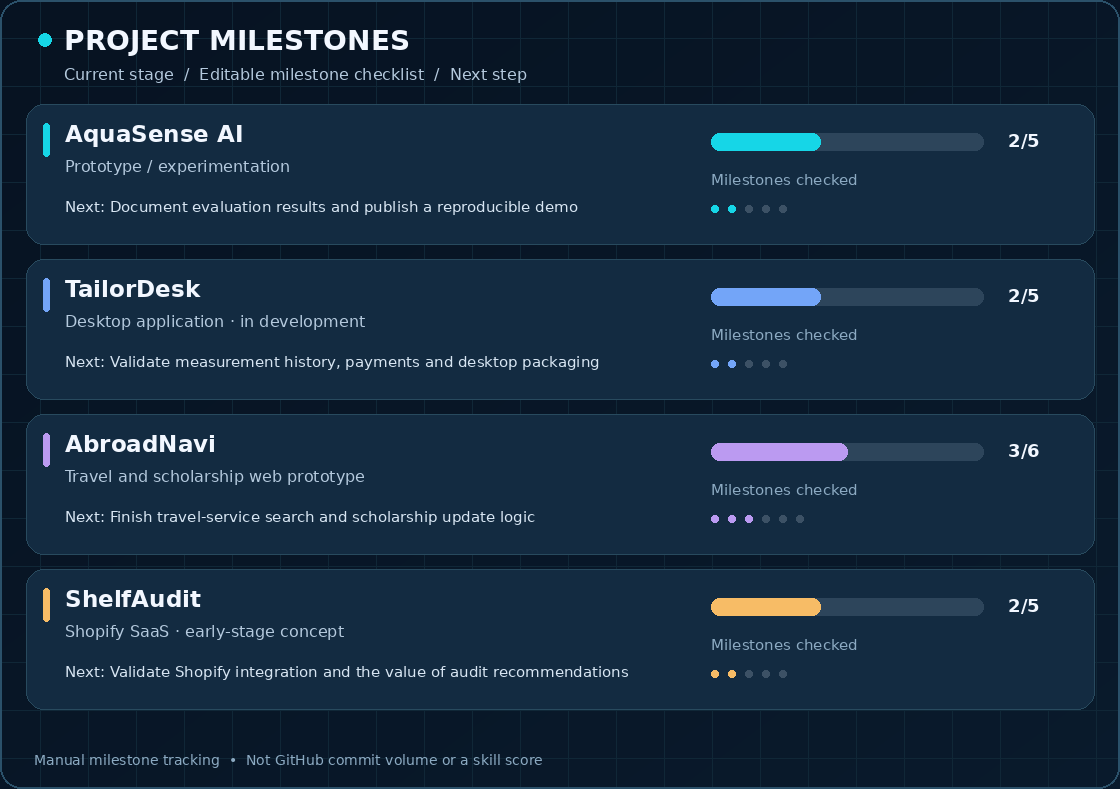
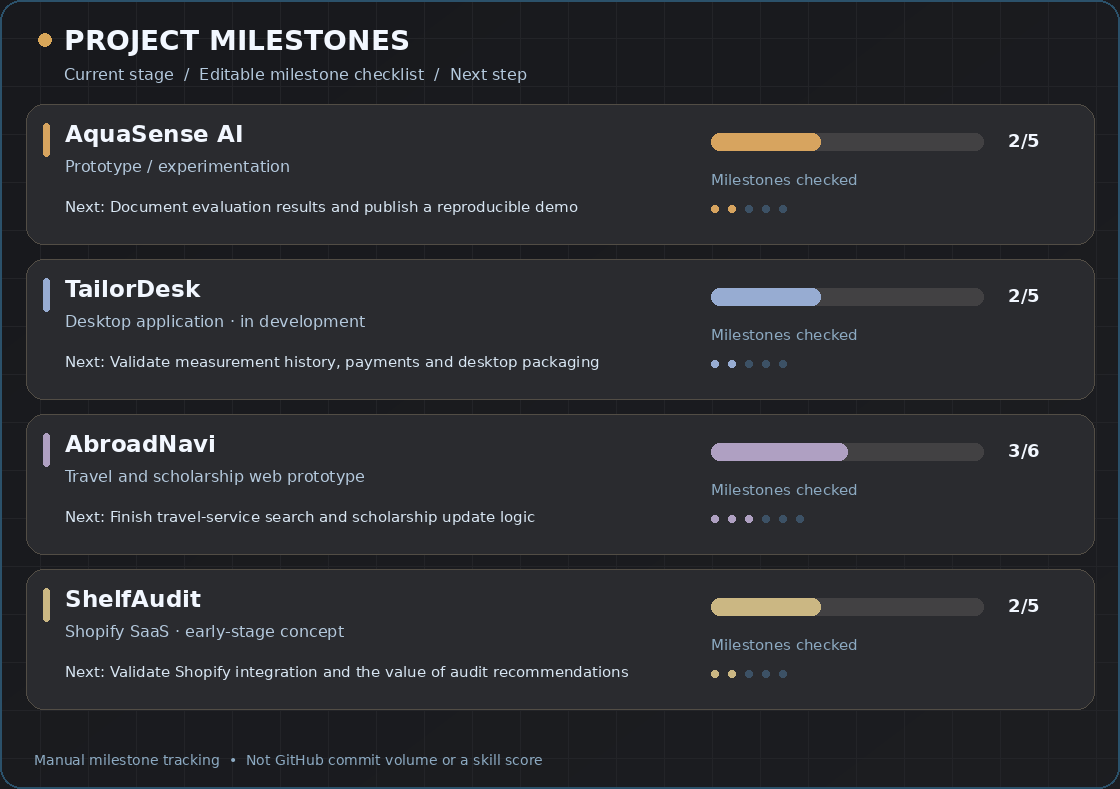
...update

diff --git a/scripts/render_animations.py b/scripts/render_animations.py
@@ -18,16 +18,16 @@ ASSETS = BASE / 'assets'
 ASSETS.mkdir(exist_ok=True)
 PROJECTS = json.loads((BASE/'data/projects.json').read_text(encoding='utf-8'))['projects']
 
-NAVY = (7, 19, 34)
-NAVY2 = (12, 32, 52)
-NAVY3 = (19, 43, 65)
-CYAN = (22, 214, 231)
-CYAN_BRIGHT = (34, 238, 248)
-BLUE = (115, 165, 248)
+NAVY = (24, 25, 29)
+NAVY2 = (32, 33, 36)
+NAVY3 = (42, 43, 47)
+CYAN = (216, 166, 89)
+CYAN_BRIGHT = (231, 190, 121)
+BLUE = (139, 160, 202)
 WHITE = (242, 247, 255)
 SUB = (180, 201, 221)
 MUTED = (140, 170, 194)
-TRACK = (45, 69, 91)
+TRACK = (66, 65, 67)
 F = {
     'bold': ['/usr/share/fonts/truetype/dejavu/DejaVuSans-Bold.ttf', '/usr/share/fonts/truetype/liberation2/LiberationSans-Bold.ttf', 'DejaVuSans-Bold.ttf'],
     'regular': ['/usr/share/fonts/truetype/dejavu/DejaVuSans.ttf', '/usr/share/fonts/truetype/liberation2/LiberationSans-Regular.ttf','DejaVuSans.ttf'],
@@ -60,9 +60,9 @@ def bg(w,h):
             t=.3*x/w+.28*y/h
             p[x,y]=(int(NAVY[0]*(1-t)+NAVY2[0]*t),int(NAVY[1]*(1-t)+NAVY2[1]*t),int(NAVY[2]*(1-t)+NAVY2[2]*t))
     d=ImageDraw.Draw(im)
-    # restrained circuit/grid lines for depth
-    for x in range(40,w,48): d.line([(x,0),(x,h)], fill=(16,39,55),width=1)
-    for y in range(38,h,48):d.line([(0,y),(w,y)], fill=(16,39,55),width=1)
+    # restrained editorial grid for depth
+    for x in range(40,w,48): d.line([(x,0),(x,h)], fill=(35,36,40),width=1)
+    for y in range(38,h,48):d.line([(0,y),(w,y)], fill=(35,36,40),width=1)
     return im
 
 def export_gif(images,filename,durations):
@@ -83,8 +83,8 @@ def make_header():
     d.text((1035,111),'</>',font=font(39,'mono'),fill=CYAN)
     d.text((932,242),'BUILD  /  LEARN  /  SHARE',font=font(12,'mono'),fill=(119,159,182))
     d.line((40,244,862,244),fill=(42,80,96),width=2)
-    d.text((42,181),'Software Developer  /  Frontend, Shopify & SEO',font=font(22),fill=SUB)
-    d.text((42,213),'Applied AI & Research',font=font(19,'bold'),fill=CYAN_BRIGHT)
+    d.text((42,181),'AI Research Interests  /  Applied Machine Learning',font=font(22),fill=SUB)
+    d.text((42,213),'Software Developer  /  Frontend, Shopify & SEO',font=font(19,'bold'),fill=CYAN_BRIGHT)
     name='Muhammad Abubakar Maqsood'
     size=51
     f=font(size,'bold')
@@ -141,7 +141,7 @@ def draw_card(d,p,i,amount):
     elif c==(128,183,255):c=BLUE
     elif c==(194,163,255):c=(187,154,241)
     elif c==(241,189,112):c=(247,188,102)
-    corner(d,(26,y,1094,y+140),18,NAVY3,outline=(40,74,94),width=1)
+    corner(d,(26,y,1094,y+140),18,NAVY3,outline=(82,77,69),width=1)
     corner(d,(43,y+19,49,y+52),3,c)
     d.text((65,y+16),str(p.get('name','Untitled')),font=font(23,'bold'),fill=WHITE)
     d.text((65,y+53),str(p.get('phase','In progress')),font=font(16),fill=SUB)
@@ -212,5 +212,5 @@ def make_dashboard():
     (ASSETS/'project-dashboard.svg').write_text('\n'.join(svg),encoding='utf-8')
 
 if __name__=='__main__':
-    make_header();make_dashboard()
+    make_dashboard()
     print(f'Rendered animated header and {len(PROJECTS)} project rows')

diff --git a/README.md b/README.md
@@ -1,125 +1,100 @@
 <!-- Profile repository: github.com/abubakar-maqsood/abubakar-maqsood -->
 <div align="center">
-  <img src="assets/name-cover-typing.gif" width="100%" alt="Animated typing of the name Muhammad Abubakar Maqsood with a subtle cyan accent" />
+  <img src="assets/top-cover-banner.webp" width="100%" alt="Muhammad Abubakar Maqsood banner with AI research interests, applied machine learning, and aspiring for MS and PhD abroad" />
   <br/><br/>
   <a href="https://www.linkedin.com/in/abu-ba-kar/"><img src="https://img.shields.io/badge/LinkedIn-Connect-0A66C2?style=flat-square&logo=linkedin&logoColor=white" alt="LinkedIn" /></a>
-  <a href="https://ayhanpk.com/"><img src="https://img.shields.io/badge/Website-Ayhan_Co-089EAD?style=flat-square&logo=googlechrome&logoColor=white" alt="Ayhan Co" /></a>
-  <a href="https://github.com/abubakar-maqsood?tab=repositories"><img src="https://img.shields.io/badge/GitHub-Explore_Code-243B58?style=flat-square&logo=github&logoColor=white" alt="Repositories" /></a>
-</div>
-
-<div align="center">
+  <a href="https://ayhanpk.com/"><img src="https://img.shields.io/badge/Website-Ayhan_Co-856842?style=flat-square&logo=googlechrome&logoColor=white" alt="Website" /></a>
+  <a href="https://github.com/abubakar-maqsood?tab=repositories"><img src="https://img.shields.io/badge/GitHub-Public_Repositories-343638?style=flat-square&logo=github&logoColor=white" alt="Repositories" /></a>
+  <br/><br/>
+  <img src="assets/center-bitmoji.webp" width="210" alt="Abubakar illustration with laptop" />
   <br/>
-  <img src="assets/about-avatar-wave.gif" width="290" alt="Animated Bitmoji of Abubakar waving behind a laptop" />
+  <img src="assets/research-headlines-typing.gif" width="94%" alt="Rotating lines about AI research interests, graduate-study goals, model reliability and hackathon activity" />
 </div>
 
-## About me
+I'm **Muhammad Abubakar Maqsood**, an Information Technology graduate developing my interests in **AI research, applied machine learning, model evaluation, and data reliability**. I'm preparing myself for **future Master's and PhD study opportunities abroad** through practical experiments, project work, and research-oriented learning.
 
-I'm **Muhammad Abubakar Maqsood**, a software developer focused on **frontend development, Shopify, and SEO**, with a growing interest in **applied AI and computer science research**. I enjoy building clean interfaces, solving real workflow problems, and exploring how software and AI can create useful outcomes.
+My professional background is in **software development, frontend engineering, Shopify, and SEO**. I want to connect practical software skills with clear, honest, and reproducible AI work.
 
-**What I build**  
-Responsive websites, e-commerce experiences, and software prototypes for real-world use cases.
+**Research interests:** Trustworthy AI, applied machine learning, model evaluation, uncertainty, and responsible AI systems.  
+**Current direction:** Learning through experiments, prototypes, hackathons, and structured self-study.  
+**Academic background:** BS Information Technology, University of Agriculture Faisalabad, Sub-Campus Burewala (2025), CGPA **3.53/4.00**.  
+**Professional experience:** Frontend and e-commerce work, including Fusion Funky.
 
-**AI and research exploration**  
-Learning Python, machine learning concepts, model evaluation, data reliability, and prompt engineering through practical experiments.
+## Research interests and experiments
 
-**Current projects**  
-Developing software products and exploring questions in AI and computer science.
+| Area | Current focus |
+|:--|:--|
+| **Trustworthy AI** | Understanding when AI outputs should be trusted, verified, or questioned. |
+| **Applied ML** | Practicing experiments with imperfect datasets and reproducible workflows. |
+| **Model evaluation** | Learning how to evaluate errors, missing values, limitations, and reliability. |
+| **AI agents** | Exploring accountability, consent, verification, and safer AI-assisted workflows. |
 
-**Current activities**  
-Taking part in AI hackathons and technical competitions, experimenting with ideas, and documenting what I learn.
+### AquaSense AI — Applied ML exploration
 
-**Experience**  
-Web development and e-commerce work with **Fusion Funky**, alongside independent projects.
-
-**Education**  
-BS Information Technology, **University of Agriculture Faisalabad**, Sub-Campus Burewala (2025).
-
-**Open to**  
-Software engineering collaborations, open source, applied AI learning, and technical projects with practical impact.
+A practical learning project using water-quality data to explore preprocessing, missing-value analysis, basic prediction, and model evaluation. **AquaSense AI is a learning prototype**, not a published research paper or a deployed scientific system.
 
 ## Tools and technologies
 
-### Main focus
-
-**Frontend:** HTML · CSS · JavaScript · Bootstrap · Tailwind CSS  
-**E-commerce:** Shopify · Liquid · Store development and management  
-**SEO and web quality:** Technical SEO · Responsive design · Performance and accessibility  
-**Developer workflow:** Git · GitHub · VS Code · Debugging
-
 <div align="center">
-  <img src="https://skillicons.dev/icons?i=html,css,js,bootstrap,tailwind,shopify,git,github&perline=8" alt="Frontend, Shopify and developer tools" />
+  <b>Development foundation and current exploration</b>
+  <br/><br/>
+  <img src="https://skillicons.dev/icons?i=python,html,css,js,bootstrap,tailwind&perline=6" width="340" alt="Python, HTML, CSS, JavaScript, Bootstrap, Tailwind" />
   <br/>
-  <img src="https://skillicons.dev/icons?i=vscode,react,ts,python,firebase,mysql,sqlite,electron&perline=8" alt="Currently learning and software exploration tools" />
+  <img src="https://skillicons.dev/icons?i=git,github,vscode,react,ts,firebase&perline=6" width="340" alt="Git, GitHub, VS Code, React, TypeScript, Firebase" />
 </div>
 
-### Currently learning and exploring
+**Professional focus:** Frontend development, Shopify, Liquid, responsive UI, technical SEO and web quality.  
+**Currently learning or exploring:** Python, applied ML, React, TypeScript, Firebase, MySQL, SQLite, Electron, and prompt engineering. These are learning interests, not claims of professional specialization.
 
-The tools below are areas I'm learning or using in experiments; **they are not listed as professional specializations**.
+## Completed projects and public practice
 
-| Software and data | AI and exploration |
-|:--|:--|
-| Python, Firebase, MySQL, SQLite, Electron | Machine learning concepts, model evaluation, data reliability |
-| React, TypeScript (project-based learning) | Prompt engineering, AI-assisted development, research exploration |
-
-## Completed projects
+The following public repositories demonstrate web development and frontend learning. Practice clones are labeled accordingly and are **not presented as original research**.
 
 <div align="center">
-  <img src="assets/project-card-portfolio.svg" width="48%" alt="My Portfolio repository card" />
-  <img src="assets/project-card-netflix.svg" width="48%" alt="Netflix Clone repository card" />
+  <a href="https://github.com/abubakar-maqsood/My-Portfolio"><img src="assets/project-card-portfolio.svg" width="48%" alt="My Portfolio repository" /></a>
+  <a href="https://github.com/abubakar-maqsood/Netflix-clone"><img src="assets/project-card-netflix.svg" width="48%" alt="Netflix Clone practice project" /></a>
   <br/>
-  <img src="assets/project-card-ultraedit.svg" width="48%" alt="UltraEdit Clone repository card" />
-  <img src="assets/project-card-tourist.svg" width="48%" alt="Tourist System repository card" />
+  <a href="https://github.com/abubakar-maqsood/UltraEdit-Clone"><img src="assets/project-card-ultraedit.svg" width="48%" alt="UltraEdit Clone practice project" /></a>
 </div>
 
-These are my visible public repositories and practice projects. I prefer to improve their documentation and code quality over adding unnecessary demo links.
+## Current software projects
 
-## Ongoing projects
-
-These are prototypes and ongoing projects that represent what I'm currently building and learning from.
-
-| Project | What I'm building | Stage |
+| Project | Purpose | Stage |
 |:--|:--|:--|
-| **AquaSense AI** | Water-quality data experiments, missing observations, and prediction evaluation. | Notebook prototype / learning |
-| **TailorDesk** | Desktop workflow for tailor orders, measurements, payment balances and deliveries. | In development |
-| **AbroadNavi** | Travel-service information and scholarship discovery experience. | Web prototype |
-| **ShelfAudit** | Shopify store auditing and actionable improvement insights. | Early-stage concept |
+| **AquaSense AI** | Water-quality data preparation and ML evaluation experiments. | Notebook prototype |
+| **TailorDesk** | Tailoring orders, measurements, payment balances and delivery workflow. | In development |
+| **AbroadNavi** | Travel services and scholarship discovery. | Web prototype |
+| **ShelfAudit** | Shopify store audit insights and improvement workflows. | Early-stage concept |
 
-### Animated project tracker
+### Animated project milestones
 
 <div align="center">
-  <img src="assets/project-dashboard-grow.gif" width="100%" alt="Animated milestone bars that grow from zero to the current manually checked position for each project" />
+  <img src="assets/project-dashboard-grow.gif" width="100%" alt="Milestone progress bars animate from zero to their manually checked completion positions" />
 </div>
 
 <details>
-<summary><b>How project progress works</b></summary>
+<summary><b>How the project tracker works</b></summary>
 
-Each bar **animates from zero to the completed milestone fraction**, based on editable checkboxes in [`data/projects.json`](data/projects.json). The figures represent only those selected milestones. They are not skill scores, automated completion detection, or repository commit activity. A GitHub Actions workflow can regenerate the GIF and SVG when you update the JSON file. [See a static tracker image](assets/project-dashboard-still.png).
+The dashboard uses the manually maintained checklist in [`data/projects.json`](data/projects.json). The animation shows **listed milestones checked**, not an automated measurement of project completion, coding skill, or GitHub activity. Review starter milestones before using the numbers publicly.
 </details>
 
-## Current focus
+## Graduate-study direction
 
-```text
-01  Building real-world software and publishing clearer project documentation
-02  Improving frontend development, Shopify workflows and technical SEO
-03  Learning Python, machine learning and reliable model evaluation
-04  Participating in hackathons and technical competitions
-05  Sharing reproducible demos, lessons learned and project results
-```
+My current goal is to strengthen my foundation in AI and software engineering through reproducible experimentation, honest documentation, and project-based learning. I am **looking forward to funded Master's opportunities and, in the long term, PhD study abroad**. My interests are still developing; I do not claim formal publications or established researcher status.
 
-## GitHub activity
+## Current activities
 
-See my [public repositories](https://github.com/abubakar-maqsood?tab=repositories) and [GitHub contributions](https://github.com/abubakar-maqsood?tab=overview). I value readable code, clear documentation and real progress over inflated statistics.
+- Building and documenting software and applied ML prototypes.
+- Participating in hackathons and technical competitions.
+- Learning to evaluate AI systems with clearer evidence and limitations.
+- Improving research and technical communication.
 
-## Journey
+## GitHub and collaboration
 
-| Period | Milestone |
-|:--|:--|
-| **2025** | Graduated with a BS in Information Technology, UAF Sub-Campus Burewala. |
-| **2025** | Web-development internships, including Hywiz Technologies. |
-| **2025 – present** | Web/e-commerce experience, independent software projects and applied AI exploration. |
+View my [public repositories](https://github.com/abubakar-maqsood?tab=repositories) and [contribution activity](https://github.com/abubakar-maqsood?tab=overview). I value documented methodology, readable code, transparent limitations and useful collaboration.
 
 <div align="center">
-  <img src="assets/footer-line.svg" width="88%" alt="Build, Experiment, Learn, Improve" />
+  <img src="assets/footer-line.svg" width="90%" alt="Build, Experiment, Learn, Improve" />
   <br/>
-  <sub>Thanks for visiting. Explore a project or connect with me on LinkedIn.</sub>
+  <sub>Building foundations in AI research, applied machine learning and software engineering.</sub>
 </div>

diff --git a/SETUP.md b/SETUP.md
@@ -1,59 +1,49 @@
-# GitHub profile: full animated version
+# Installation: complete animated GitHub profile
 
-**Repository:** `abubakar-maqsood/abubakar-maqsood` (public)
+This ZIP is for the **existing** profile repository:
 
-## Replace your existing files
+https://github.com/abubakar-maqsood/abubakar-maqsood
 
-1. Extract the ZIP to your computer. **Do not upload the ZIP itself.**
-2. Open your existing profile repository on GitHub.
-3. Upload the contents of this extracted folder **at repository root**, preserving `README.md`, `assets/`, `data/`, `scripts/`, and `.github/workflows/`.
-4. Use GitHub Desktop (recommended): clone the existing repository, copy the extracted files into the cloned folder and confirm replacement, then Commit to main and Push origin. This includes the hidden `.github` folder.
-5. Commit with `Refresh animated GitHub profile` and reload `https://github.com/abubakar-maqsood`.
+## Final layout
 
-**IMPORTANT:** GitHub's web uploader is not a reliable bulk-replacement tool for files that already exist. GitHub Desktop is recommended. Do not delete your repository or create a new one. Preserve the exact paths. Old, unused assets such as `assets/hero-wave.gif` can be deleted later, but are harmless if left in place.
+1. Latest approved cream/charcoal/gold cover, with handwritten signature and end star, **Vibe Coding** and AI/ML research interest labels. The cover itself is a compressed, static WebP image.
+2. Profile links: LinkedIn, website and repositories.
+3. Small, centered, transparent Bitmoji behind a laptop (static).
+4. Four research/graduate-study headlines that type, erase and repeat (animated GIF).
+5. Research-first introduction with academic background and a careful description of learning goals.
+6. Two equal, centered rows of technology icons; learning technologies clearly labeled.
+7. Completed public/practice project cards (no made-up live demos).
+8. Current projects and animated milestone bars, which grow from zero to manually recorded positions.
+9. Graduate-study goals, current activities and collaboration.
 
-## Animations included
+## Replace in your current repository
 
-- `assets/name-cover-typing.gif`: real animated typing of your full name. No character in the cover.
-- `assets/about-avatar-wave.gif`: the **exact uploaded illustrated character** with a gently waving raised hand and laptop in front; the face, suit, and laptop are stationary.
-- `assets/about-avatar-transparent.png`: the original source image used to make that animation.
-- `assets/project-dashboard-grow.gif`: each milestone bar starts at zero and fills to the checklist fraction; it loops.
-- `assets/footer-line.svg`: subtle footer pulse (browser SVG support varies).
-- `assets/project-dashboard.svg`: SVG alternative with animated width change where SVG animation is supported.
-- `assets/name-cover-still.png` and `assets/project-dashboard-still.png`: static poster frames.
+1. Download and extract the ZIP on your computer.
+2. In GitHub Desktop, clone/open `abubakar-maqsood/abubakar-maqsood`.
+3. Copy the **contents** of the extracted folder (not the outer folder itself) into the repository root, replacing existing files.
+4. Check that `README.md` and `assets/` are at the repository root and `.github/workflows/` is present.
+5. Commit the update and click **Push origin**.
+6. Open https://github.com/abubakar-maqsood and refresh.
 
-All main animations are GIFs for consistent display in GitHub's README. Markdown doesn't allow custom JavaScript. GIFs loop whenever they are viewed; they don't update milestone data by themselves.
+The web uploader can have trouble replacing many existing files and hidden `.github` folders. GitHub Desktop is recommended. Do **not** upload the ZIP itself to GitHub.
 
-## Updating project progress
+## Customize project milestones
 
-Edit `data/projects.json`. Set milestone `done` to `true` only after it is actually complete, and update `phase` and `next` as necessary. **Do not treat demo milestones as verified without checking**. The tracker reports your manually edited milestones, not actual percent of code or task completion.
-
-When GitHub Actions workflow `Refresh animated project tracker` is enabled, it runs after a commit to `data/projects.json`, regenerates `assets/project-dashboard-grow.gif`, `assets/project-dashboard.svg` and poster, then commits updated assets. The workflow also generates `assets/name-cover-typing.gif` (with the same name).
-
-Run locally (Python 3.10+):
-
-```bash
-python -m pip install Pillow
-python scripts/render_animations.py
-```
-
-**If the Action fails to push:** Repository Settings > Actions > General > Workflow permissions > Read and write permissions, where your repository policy allows it. Then run the workflow manually in the Actions tab.
-
-## Optional contribution snake
-
-Run the `Generate contribution snake` workflow once in Actions. After verifying the `output` branch contains the SVG images, remove the `<!-- ... -->` comment around the optional contribution-snake section in `README.md` and commit. The snake reflects genuine GitHub contribution history, not project milestones. This step is optional.
-
-## Appearance and accessibility
-
-Animated GIFs may not respect system Reduced Motion preferences. Prefer the two `*-still.png` alternatives in the README if you want to disable motion. The design intentionally keeps animations restrained, with legible contrast and no moving background behind About Me text.
-
-## Regenerate the exact Bitmoji hand-wave (optional)
-
-The included GIF is already finished; **you do not have to run this step**. To remake it using the supplied original illustration:
+Edit `data/projects.json` to reflect actual milestone states. The bundled counts are starter checklists, **not verified project completion percentages**. For local regeneration:
 
 ```bash
-python -m pip install Pillow numpy opencv-python
-python scripts/render_avatar_wave.py
+python -m pip install 'Pillow>=10,<13'
+python scripts/render_dashboard.py
 ```
 
-This affects only the Bitmoji GIF. The project progress workflow does not alter your avatar.
+The `.github/workflows/dashboard.yml` workflow can regenerate dashboard files after changes to the JSON, but GitHub Actions permissions and successful execution must be checked in your own repository.
+
+## Files and loading
+
+- `assets/top-cover-banner.webp`: latest approved cover, compressed for faster loading
+- `assets/center-bitmoji.webp`: small static transparent avatar
+- `assets/research-headlines-typing.gif`: looping text animation
+- `assets/project-dashboard-grow.gif`: growing milestone bar animation
+- `.github/workflows/`: dashboard update and optional snake workflows
+
+The banner and avatar are intentionally static to keep the profile lightweight; the rotating headlines and project tracker are genuinely animated.
